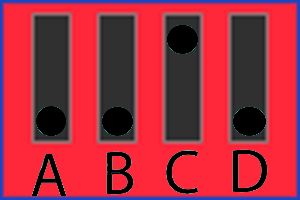
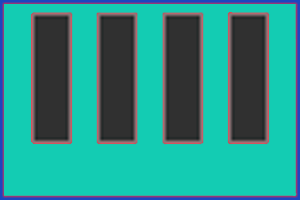
fixed interface

diff --git a/CLB/JumperViewController.m b/CLB/JumperViewController.m
@@ -12,10 +12,11 @@
 #import "JumperDouble.h"
 @interface JumperViewController ()
 @property NSArray *jumpers;
+@property UIColor *backgroundcolor;
 @end
 
 @implementation JumperViewController
-@synthesize jumperSetup,jumpers,scvr;
+@synthesize jumperSetup,jumpers,scvr,backgroundcolor;
 - (id)initWithNibName:(NSString *)nibNameOrNil bundle:(NSBundle *)nibBundleOrNil
 {
     self = [super initWithNibName:nibNameOrNil bundle:nibBundleOrNil];
@@ -26,6 +27,8 @@
 }
 
 - (void)setupWithJumperSetup:(JumperSetup)setup{
+  //backgroundcolor=[UIColor colorWithRed:19./255. green:204./255. blue:179./255. alpha:1.];
+  backgroundcolor=self.mainView.backgroundColor;
   jumperSetup=setup;
   //Create appropriate numbers of segmented controls
   jumpers=[self.jumperDelegate getJumpersForJumpersetup:jumperSetup];
@@ -66,6 +69,7 @@
           jump.frame=segmentrect;
           [jump setSelectedSegmentIndex:[[[jumpers objectAtIndex:i]objectAtIndex:j] getPosition]-1];
           [jump addTarget:self action:@selector(valueChanged:) forControlEvents: UIControlEventValueChanged];
+          l.backgroundColor=backgroundcolor;
           [scvr addSubview:l];
           [scvr addSubview:jump];
           }
@@ -95,11 +99,13 @@
           text.text=@"D";
         else if(i==7)
           text.text=@"¬D";
+        text.backgroundColor=backgroundcolor;
         [self.mainView addSubview:text];
       }
       r.origin.x=10;
       UILabel *jumpername = [[UILabel alloc] initWithFrame:r];
       jumpername.text=@"F1";
+      jumpername.backgroundColor=backgroundcolor;
       [self.view addSubview:jumpername];
       [self.view addSubview:scvr];
       break;
@@ -136,6 +142,7 @@
           labelrect.origin.y=INTERFACEJUMPERVIEWJUMPERHEIGHT*i+2;
           l = [[UILabel alloc] initWithFrame:labelrect];
           l.text=[NSString stringWithFormat:@"m2%d",i+1];
+          l.backgroundColor=backgroundcolor;
           jump = [[JumperSegmentedControl alloc] initWithItems:[NSArray arrayWithObjects:@"",@"", nil] withRow:i andColumn:j];
           jump.frame=segmentrect;
           [jump setSelectedSegmentIndex:[[[jumpers objectAtIndex:i]objectAtIndex:j] getPosition]-1];
@@ -169,11 +176,13 @@
           text.text=@"D";
         else if(i==7)
           text.text=@"~D";
+        text.backgroundColor=backgroundcolor;
         [self.mainView addSubview:text];
       }
       r.origin.x=10;
       UILabel *jumpername = [[UILabel alloc] initWithFrame:r];
       jumpername.text=@"F2";
+      jumpername.backgroundColor=backgroundcolor;
       [self.view addSubview:jumpername];
       [self.view addSubview:scvr];
       break;
@@ -211,6 +220,7 @@
           text.text=@"D";
         else if(i==3)
           text.text=@"F2";
+        text.backgroundColor=backgroundcolor;
         [self.mainView addSubview:text];
       }
       
@@ -254,6 +264,8 @@
       r.origin.x+=INTERFACEJUMPERVIEWJUMPERWIDTH/2.;
       UILabel *async=[[UILabel alloc] initWithFrame:r];
       async.text=@"Async";
+      l1.backgroundColor=backgroundcolor;
+      l2.backgroundColor=backgroundcolor;
       [self.mainView addSubview:sync];
       [self.mainView addSubview:async];
       [self.mainView addSubview:l2];
@@ -287,6 +299,7 @@
           text.text=@"F2";
         else if(i==3)
           text.text=@"¬F2";
+        text.backgroundColor=backgroundcolor;
         [self.mainView addSubview:text];
       }
       s=r;
@@ -296,10 +309,12 @@
       s.origin.y+=INTERFACEJUMPERVIEWJUMPERHEIGHT/2.+5;
       text=[[UILabel alloc] initWithFrame:s];
       text.text=@"X";
+      text.backgroundColor=backgroundcolor;
       [self.mainView addSubview:text];
       s.origin.y+=INTERFACEJUMPERVIEWJUMPERHEIGHT*2.;
       text=[[UILabel alloc] initWithFrame:s];
       text.text=@"Y";
+      text.backgroundColor=backgroundcolor;
       [self.mainView addSubview:text];
       for (int j=0; j<2; j++) {
         for (int i=0; i<4; i++) {
@@ -382,6 +397,12 @@
       //d.text=@"D";
       x.text=@"X";
       y.text=@"Y";
+      a.backgroundColor=backgroundcolor;
+      b.backgroundColor=backgroundcolor;
+      //c.backgroundColor=backgroundcolor;
+      //d.backgroundColor=backgroundcolor;
+      x.backgroundColor=backgroundcolor;
+      y.backgroundColor=backgroundcolor;
       [self.mainView addSubview:a];
       [self.mainView addSubview:b];
       //[self.mainView addSubview:c];
@@ -457,6 +478,12 @@
       d.text=@"D";
       x.text=@"X";
       y.text=@"Y";
+      //a.backgroundColor=backgroundcolor;
+      //b.backgroundColor=backgroundcolor;
+      c.backgroundColor=backgroundcolor;
+      d.backgroundColor=backgroundcolor;
+      x.backgroundColor=backgroundcolor;
+      y.backgroundColor=backgroundcolor;
       //[self.mainView addSubview:a];
       //[self.mainView addSubview:b];
       [self.mainView addSubview:c];
@@ -503,6 +530,7 @@
         }
         else if(i==3)
           text.text=@"MAN";
+        text.backgroundColor=backgroundcolor;
         [self.mainView addSubview:text];
       }
       [CLK setSelectedSegmentIndex:[[jumpers objectAtIndex:0] getPosition]-1];
@@ -540,24 +568,6 @@
     // Dispose of any resources that can be recreated.
 }
 - (IBAction)done:(id)sender {
-  switch (jumperSetup) {
-    case JUMPERF1:{
-      //Read out all subview values from scvr
-      NSLog(@"Return F1 Stuff");
-      break;
-    }
-    case JUMPERF2:
-      NSLog(@"Return F2 Stuff");
-      break;
-    case JUMPERFEEDBACK:
-      NSLog(@"Return Feedback");
-      break;
-    case JUMPERCLOCK:
-      NSLog(@"Jumper Clock");
-      break;
-    default:
-      break;
-  }
   [self dismissViewControllerAnimated:NO completion:nil];
 }
 
